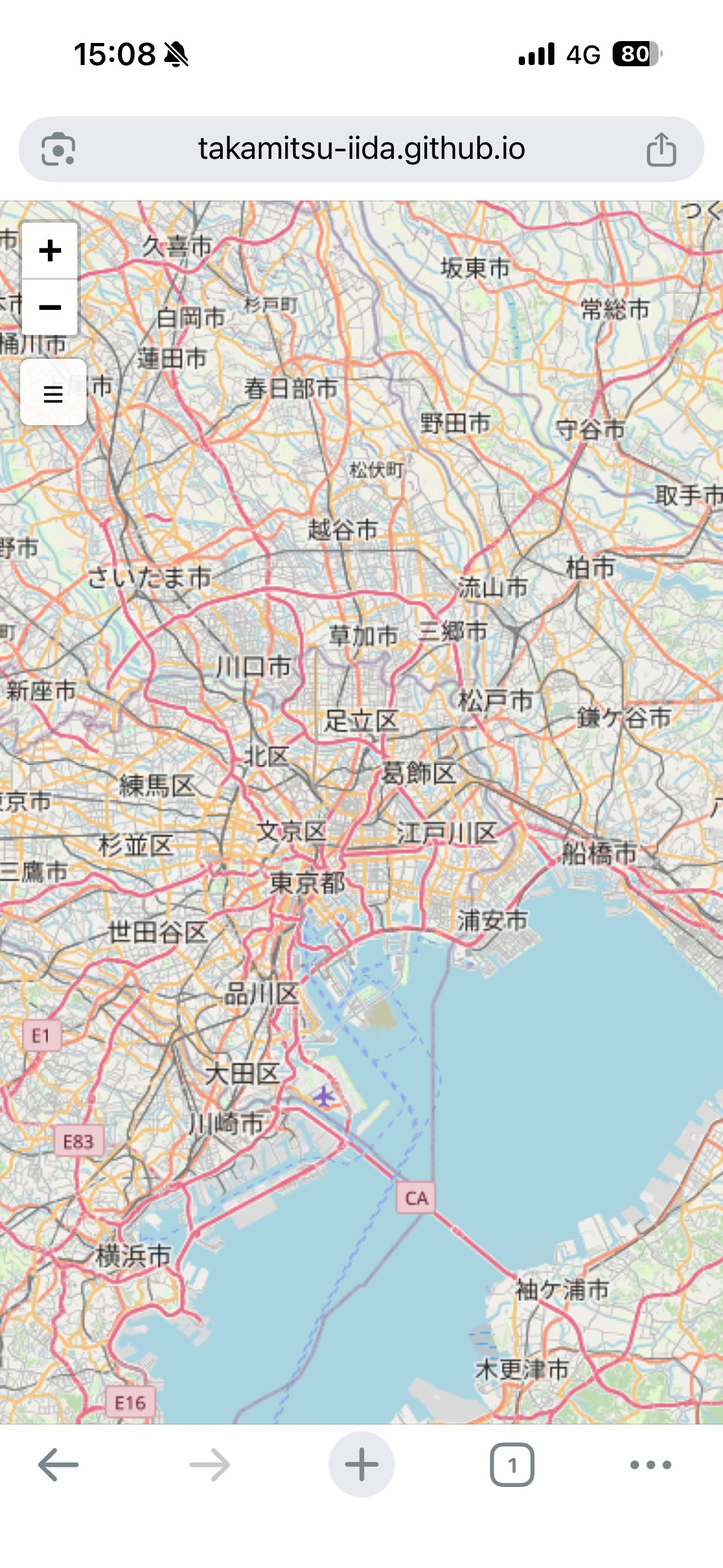
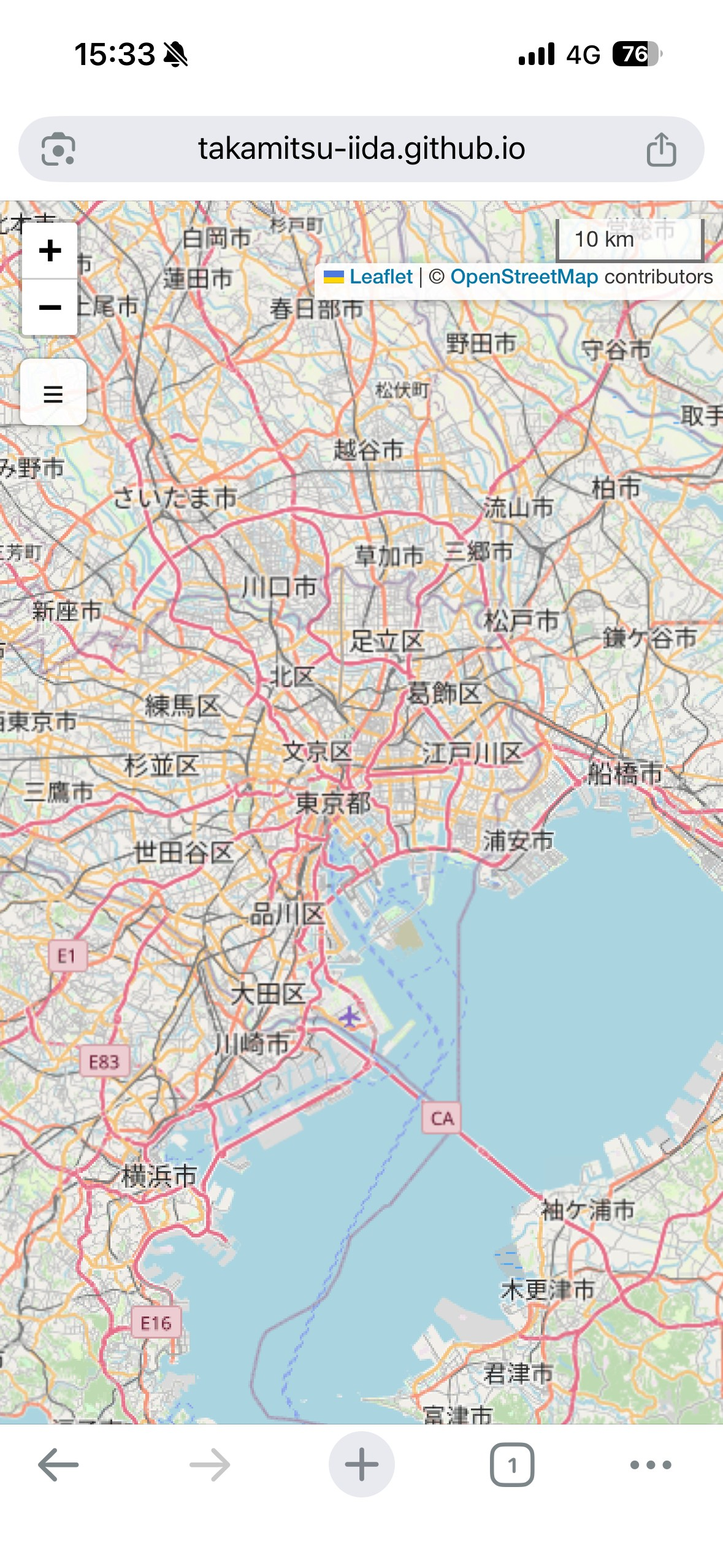
debug

diff --git a/static/site/js/index.js b/static/site/js/index.js
@@ -567,10 +567,10 @@ export class Main {
 
   #syncScalePosition(shortsEnabled) {
     if (!this.map) return;
-    // On Chrome for iOS, prefer top-right to avoid being covered by browser UI
+    // Default: shorts -> topright, otherwise bottomright. Keep Chrome on iOS at bottomright
     const isIos = /iP(hone|od|ad)/.test(navigator.userAgent || '');
     const isChromeIOS = /CriOS|Chrome/.test(navigator.userAgent || '') && isIos;
-    const desired = isChromeIOS ? 'topright' : (shortsEnabled ? 'topright' : 'bottomright');
+    const desired = shortsEnabled ? 'topright' : 'bottomright';
     if (this.scaleControl) {
       try {
         this.scaleControl.remove();
